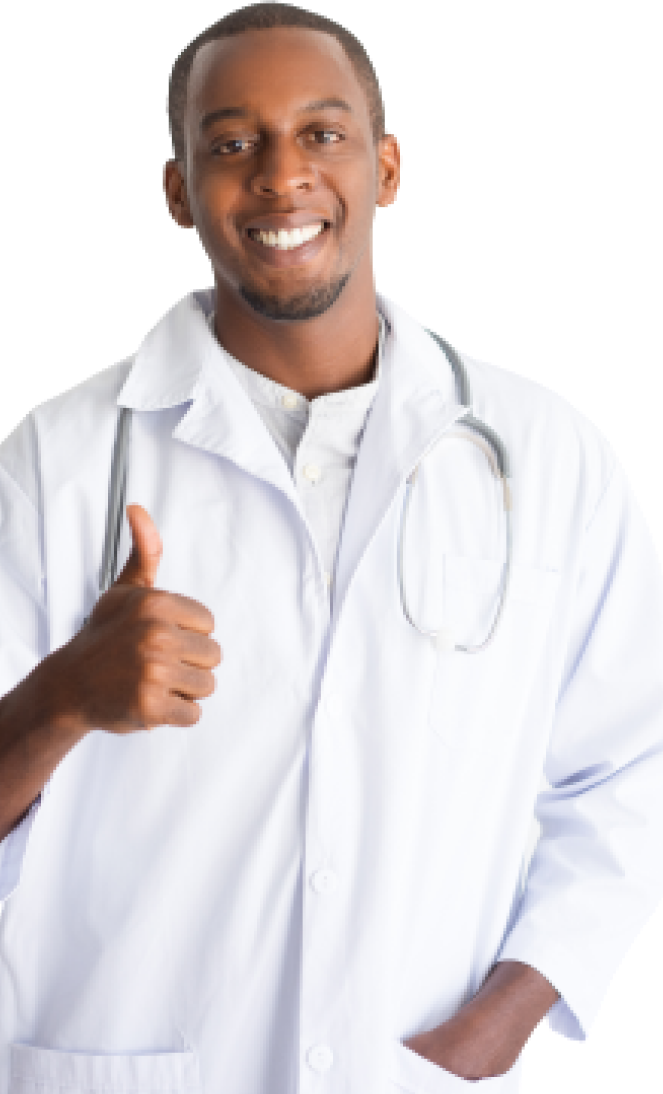
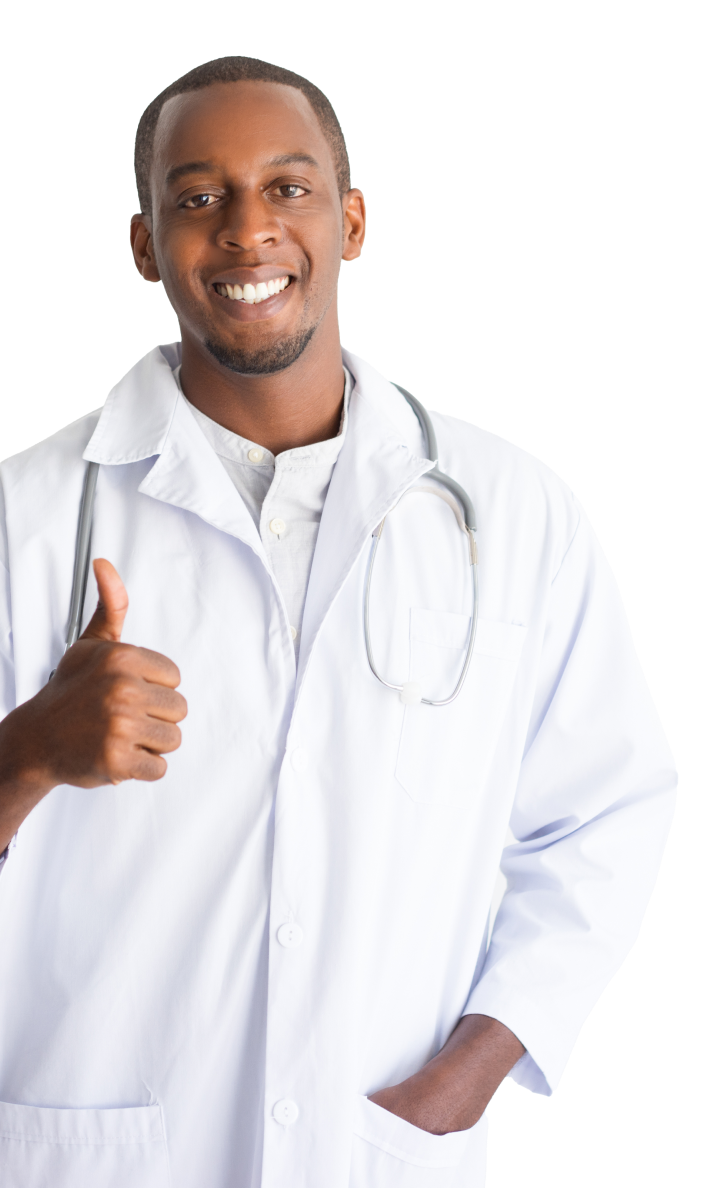
work on the UI fix of the homepage, change the about us image and add consistent spacing between each sections

diff --git a/public/customCSS/foremoststyles_jo.css b/public/customCSS/foremoststyles_jo.css
@@ -110,6 +110,16 @@ ll
 ll
 
 */
+
+/* Final fix style */
+.about-us-margin{
+    margin-top: 6.5rem;
+}
+.glass-margin{
+    margin-top: 6rem!important;
+}
+/* End of final fix style */
+
 @media (min-width: 1198px) {
     .block-display-tab {
         display: flex !important;

diff --git a/public/customCSS/about_styles.css b/public/customCSS/about_styles.css
@@ -541,7 +541,7 @@
 
 /* CONTACT US SECTION */
 .contact-us-wrapper{
-    margin-top: 6rem;
+    margin-top: 9rem;
 }
 
 .contact-us-wrapper h1{

diff --git a/resources/views/home.blade.php b/resources/views/home.blade.php
@@ -86,7 +86,7 @@
 
 
     <section
-        class="mt-5 d-flex flex-flow flex-wrap justify-content-center align-items-center
+        class="about-us-margin d-flex flex-flow flex-wrap justify-content-center align-items-center
                 block-display-tab experience-body-with-pix-mobile eyecare-image-section">
         <div class="archwarejo-width-top">
             <img class="img-fluid image-width-tab p-5 archwarejo-image-fully-bottom image-padding-buttom"
@@ -123,7 +123,7 @@
         </div>
     </section>
 
-    <section class="my-3 py-3">
+    <section class="about-us-margin">
         <div class="container justify-content-center">
             <div class="row">
                 <h2 class="medium-title text-title-mobile">
@@ -190,7 +190,7 @@
         </div>
     </section>
 
-    <section class="container-fluid hero-section need-glass-back-img">
+    <section class="container-fluid hero-section glass-margin need-glass-back-img">
         <div class="hero-section-copy">
             <h1>Need glasses fast?</h1>
             <p>
@@ -207,7 +207,7 @@
     </section>
 
 
-    <section class="my-3 py-3">
+    <section class="about-us-margin">
         <div class="container justify-content-center">
             <div class="row">
                 <h2 class="medium-title text-title-mobile">
@@ -279,7 +279,7 @@
     </div>
 
     {{-- Custom Gallery for Foremost start --}}
-    <section class="my-3 py-3">
+    <section class="glass-margin">
         <div class="container justify-content-center">
             <div class="row">
                 <h2 class="medium-title text-title-mobile">
@@ -345,7 +345,7 @@
 
 
     {{-- TESTIMONIALS SECTION --}}
-    <section class="testimonial container-fluid">
+    <section class="testimonial about-us-margin container-fluid">
         <div class="text-center">
             <h1>Testimonials</h1>
             <h6>What Do People Have To Say About Us? </h6>
